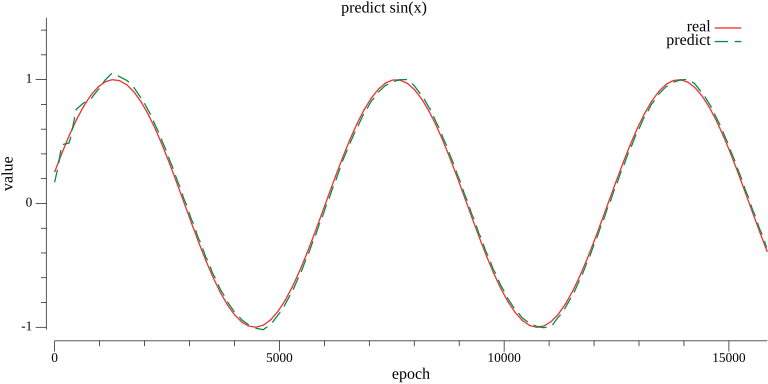
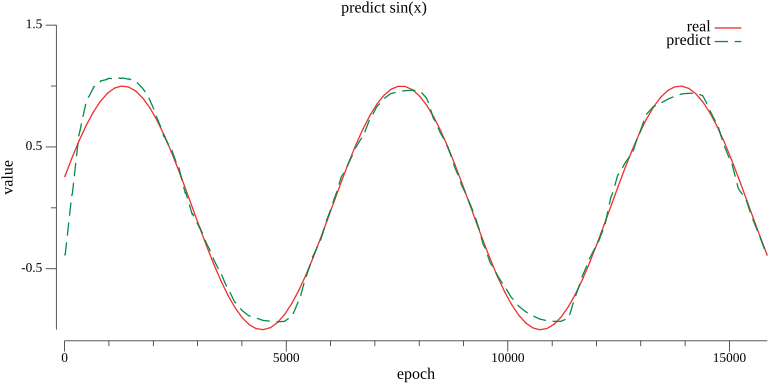
修改多头attention的实现方式

diff --git a/example/sin_attention/main.go b/example/sin_attention/main.go
@@ -3,6 +3,7 @@ package main
 import (
 	"fmt"
 	"math"
+	rt "runtime"
 
 	"github.com/lwch/runtime"
 	"github.com/lwch/tnn/nn/initializer"
@@ -21,11 +22,11 @@ import (
 const lr = 0.001
 const epoch = 1000
 const batchSize = 16
-const seqSize = 8
+const seqSize = 4
 const dims = 8
-const heads = 4
+const heads = 8
 const unitSize = seqSize * dims
-const transformerSize = 1
+const transformerSize = 2
 
 func main() {
 	// f, err := os.Create("cpu.pprof")
@@ -58,16 +59,17 @@ func main() {
 			break
 		}
 	}
+
+	ch := make(chan int)
+	for i := 0; i < rt.NumCPU(); i++ {
+		go trainWorker(points, loss, optimizer, ch)
+	}
+
 	for i := 0; i < epoch; i++ {
-		input, output := getBatch(points, i+batchSize)
-		pred := forward(input, true)
-		grad := loss.Loss(pred, output)
-		grad.ZeroGrad()
-		grad.Backward(grad)
-		paramList := getParams()
-		optimizer.Update(paramList)
+		ch <- i + batchSize
 		if i%10 == 0 {
-			pred = forward(input, false)
+			input, output := getBatch(points, i+batchSize)
+			pred := forward(input, false)
 			acc := accuracy(pred, output)
 			for j := 0; j < batchSize; j++ {
 				real = append(real, plotter.XY{X: float64(i*batchSize + j), Y: output.Value().At(j, 0)})
@@ -99,6 +101,19 @@ func main() {
 	p.Save(8*vg.Inch, 4*vg.Inch, "sin.png")
 }
 
+func trainWorker(points []float64, loss loss.Loss, optimizer optimizer.Optimizer, ch chan int) {
+	for {
+		i := <-ch
+		input, output := getBatch(points, i+batchSize)
+		pred := forward(input, true)
+		grad := loss.Loss(pred, output)
+		grad.ZeroGrad()
+		grad.Backward(grad)
+		paramList := getParams()
+		optimizer.Update(paramList)
+	}
+}
+
 var layers []layer.Layer
 
 func addTransformer(init initializer.Initializer) {
@@ -122,12 +137,11 @@ func init() {
 }
 
 func forwardTransformer(i int, x *tensor.Tensor, train bool) (*tensor.Tensor, int) {
-	// y := layers[i].Forward(x, train) // self attention
-	y := layers[i].(*layer.SelfAttention).ForwardQKV(x, x, x, nil, train) // self attention
+	y := layers[i].Forward(x, train) // self attention
 	y = y.Add(x)
 	selfOut := layers[i+1].Forward(y, train) // nor
 	y = layers[i+2].Forward(selfOut, train)  // dense
-	y = layers[i+3].Forward(y, train)        // relu
+	y = layers[i+3].Forward(y, train)        // sigmoid
 	y = layers[i+4].Forward(y, train)        // dense
 	y = y.Add(selfOut)
 	y = layers[i+5].Forward(y, train) // nor
@@ -135,12 +149,12 @@ func forwardTransformer(i int, x *tensor.Tensor, train bool) (*tensor.Tensor, in
 }
 
 func forward(x *tensor.Tensor, train bool) *tensor.Tensor {
-	y := x
+	var y *tensor.Tensor
 	i := 0
 	for j := 0; j < transformerSize; j++ {
-		y, i = forwardTransformer(i, y, train)
+		y, i = forwardTransformer(i, x, train)
 	}
-	y = layers[i].Forward(y, train)   // relu
+	y = layers[i].Forward(y, train)   // sigmoid
 	y = layers[i+1].Forward(y, train) // output
 	return y
 }

diff --git a/nn/layer/self_attention.go b/nn/layer/self_attention.go
@@ -24,9 +24,9 @@ func NewSelfAttention(seqSize, dims, headSize int, init initializer.Initializer)
 	size := dims / headSize * seqSize
 	for i := 0; i < headSize; i++ {
 		suffix := fmt.Sprintf("H%d", i)
-		shapes["Wq"+suffix] = Shape{size, size}
-		shapes["Wk"+suffix] = Shape{size, size}
-		shapes["Wv"+suffix] = Shape{size, size}
+		shapes["Wq"+suffix] = Shape{size, seqSize * dims}
+		shapes["Wk"+suffix] = Shape{size, seqSize * dims}
+		shapes["Wv"+suffix] = Shape{size, seqSize * dims}
 		shapes["Bq"+suffix] = Shape{size, 1}
 		shapes["Bk"+suffix] = Shape{size, 1}
 		shapes["Bv"+suffix] = Shape{size, 1}
@@ -63,27 +63,8 @@ func (layer *SelfAttention) ForwardQKV(q, k, v, mask *tensor.Tensor, isTraining 
 	if layer.headSize == 1 {
 		return layer.forwardSingleHead(q, k, v, mask)
 	}
-	batchSize, _ := q.Dims()
 	var ret *tensor.Tensor
-	sizePreHead := layer.dims / layer.headSize
 	for head := 0; head < layer.headSize; head++ {
-		var inputQ, inputK, inputV *tensor.Tensor
-		for seq := 0; seq < layer.seqSize; seq++ {
-			start := seq * layer.dims
-			start += head * sizePreHead
-			qHead := q.Slice(0, batchSize, start, start+sizePreHead)
-			kHead := k.Slice(0, batchSize, start, start+sizePreHead)
-			vHead := v.Slice(0, batchSize, start, start+sizePreHead)
-			if inputQ == nil {
-				inputQ = qHead
-				inputK = kHead
-				inputV = vHead
-			} else {
-				inputQ = inputQ.Stack(qHead)
-				inputK = inputK.Stack(kHead)
-				inputV = inputV.Stack(vHead)
-			}
-		}
 		suffix := fmt.Sprintf("H%d", head)
 		Wq := layer.params.Get("Wq" + suffix)
 		Wk := layer.params.Get("Wk" + suffix)
@@ -91,9 +72,9 @@ func (layer *SelfAttention) ForwardQKV(q, k, v, mask *tensor.Tensor, isTraining 
 		Bq := layer.params.Get("Bq" + suffix)
 		Bk := layer.params.Get("Bk" + suffix)
 		Bv := layer.params.Get("Bv" + suffix)
-		dq := Wq.Mul(inputQ.T()).Add(Bq)
-		dk := Wk.Mul(inputK.T()).Add(Bk)
-		dv := Wv.Mul(inputV.T()).Add(Bv)
+		dq := Wq.Mul(q.T()).Add(Bq)
+		dk := Wk.Mul(k.T()).Add(Bk)
+		dv := Wv.Mul(v.T()).Add(Bv)
 		a := dq.Mul(dk.T())
 		a = a.Scale(layer.scale)
 		if mask != nil {
